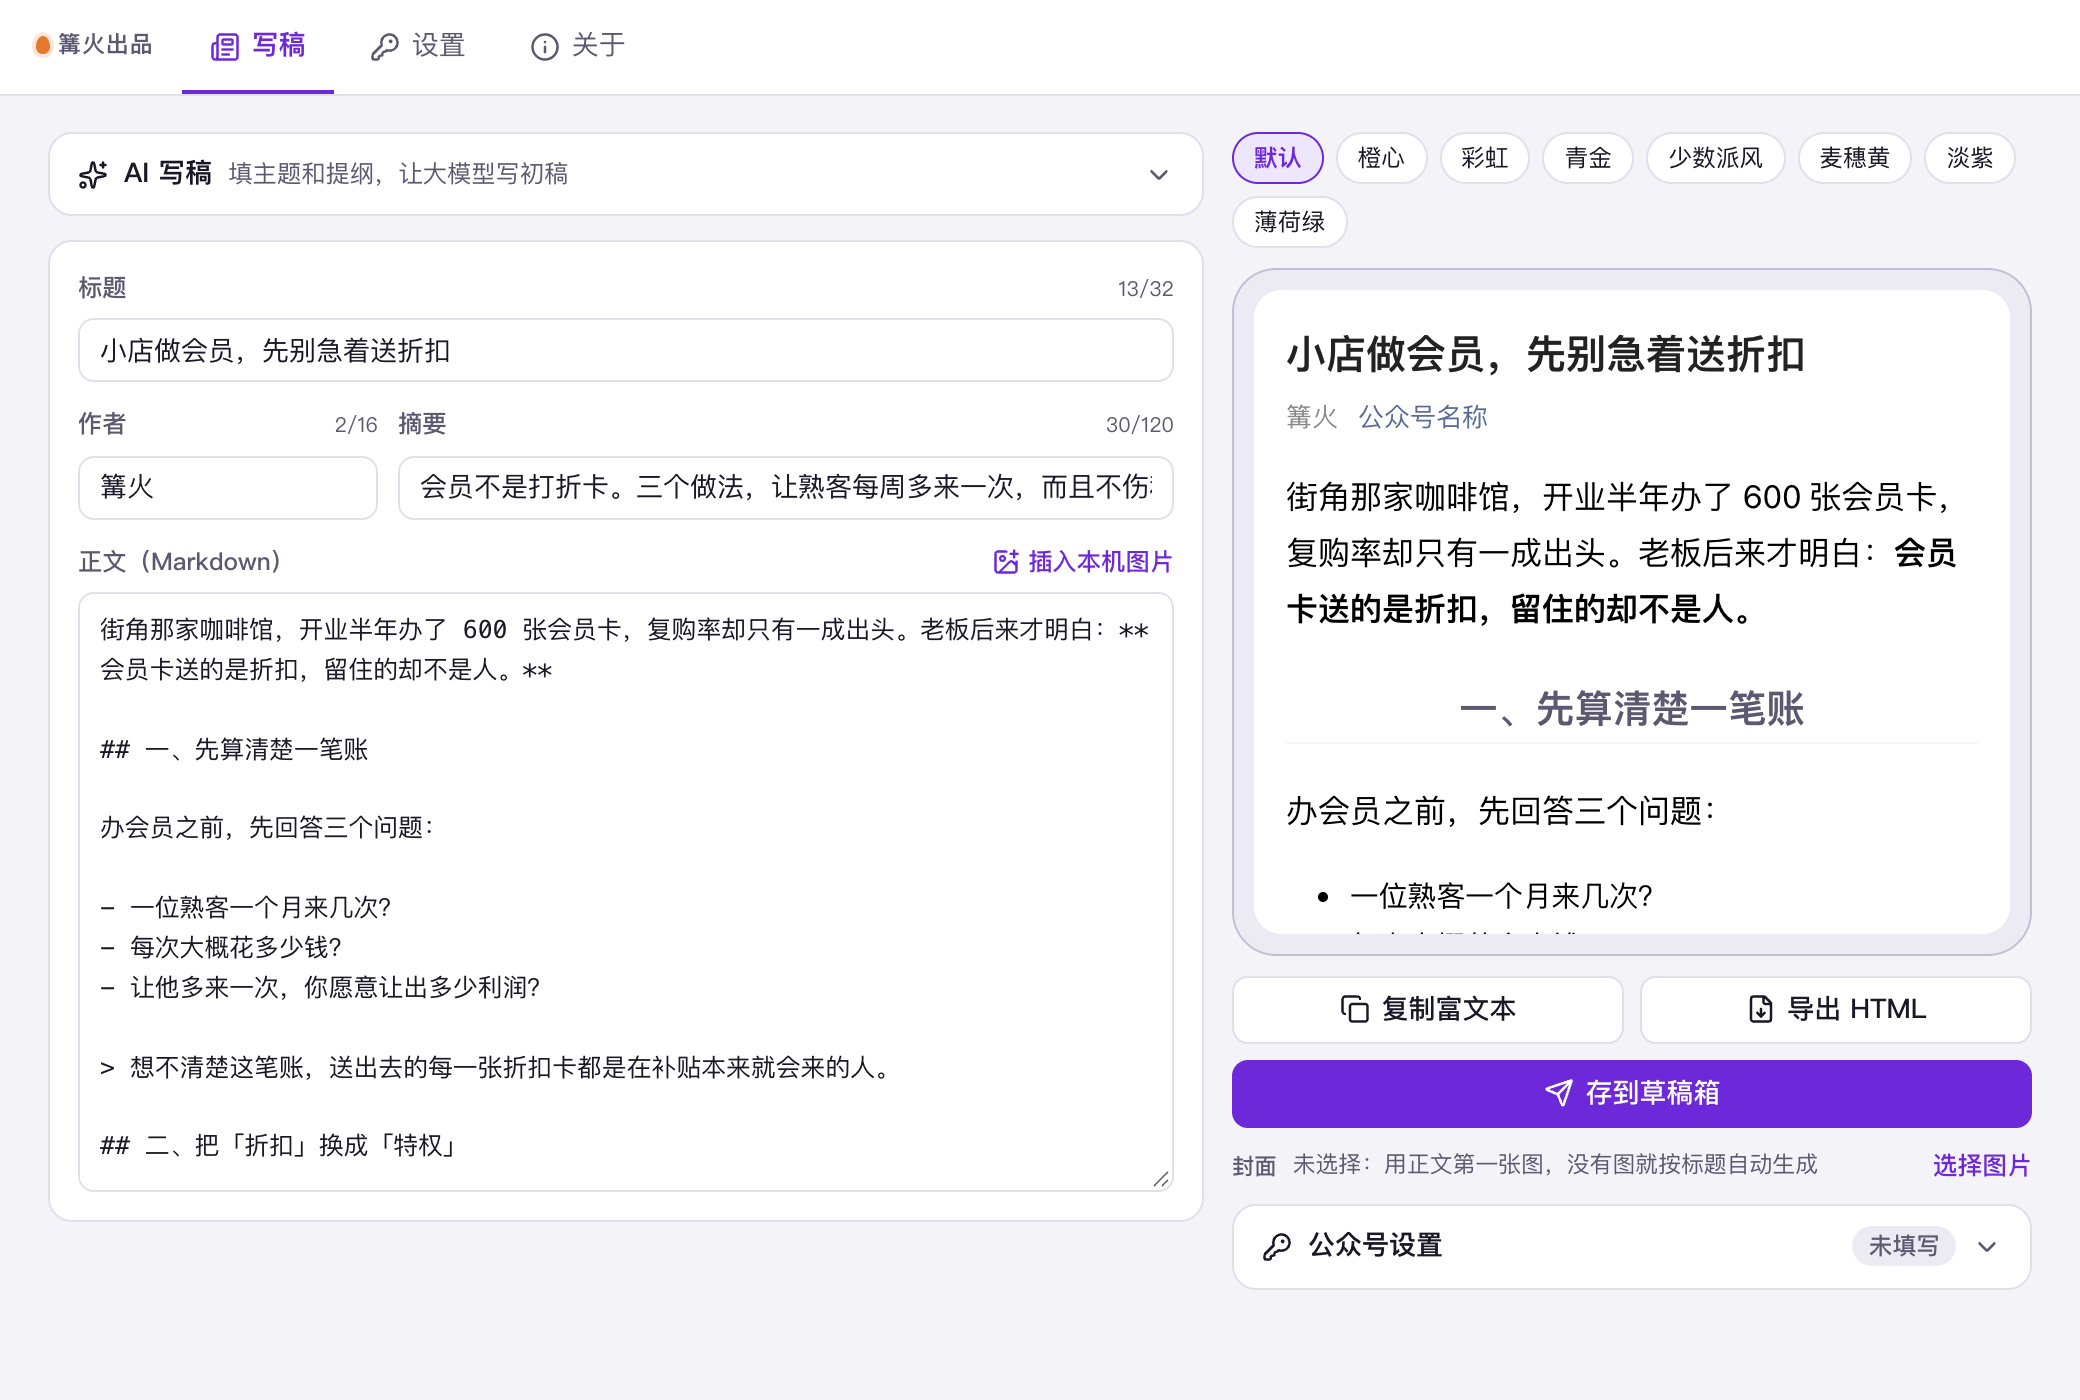
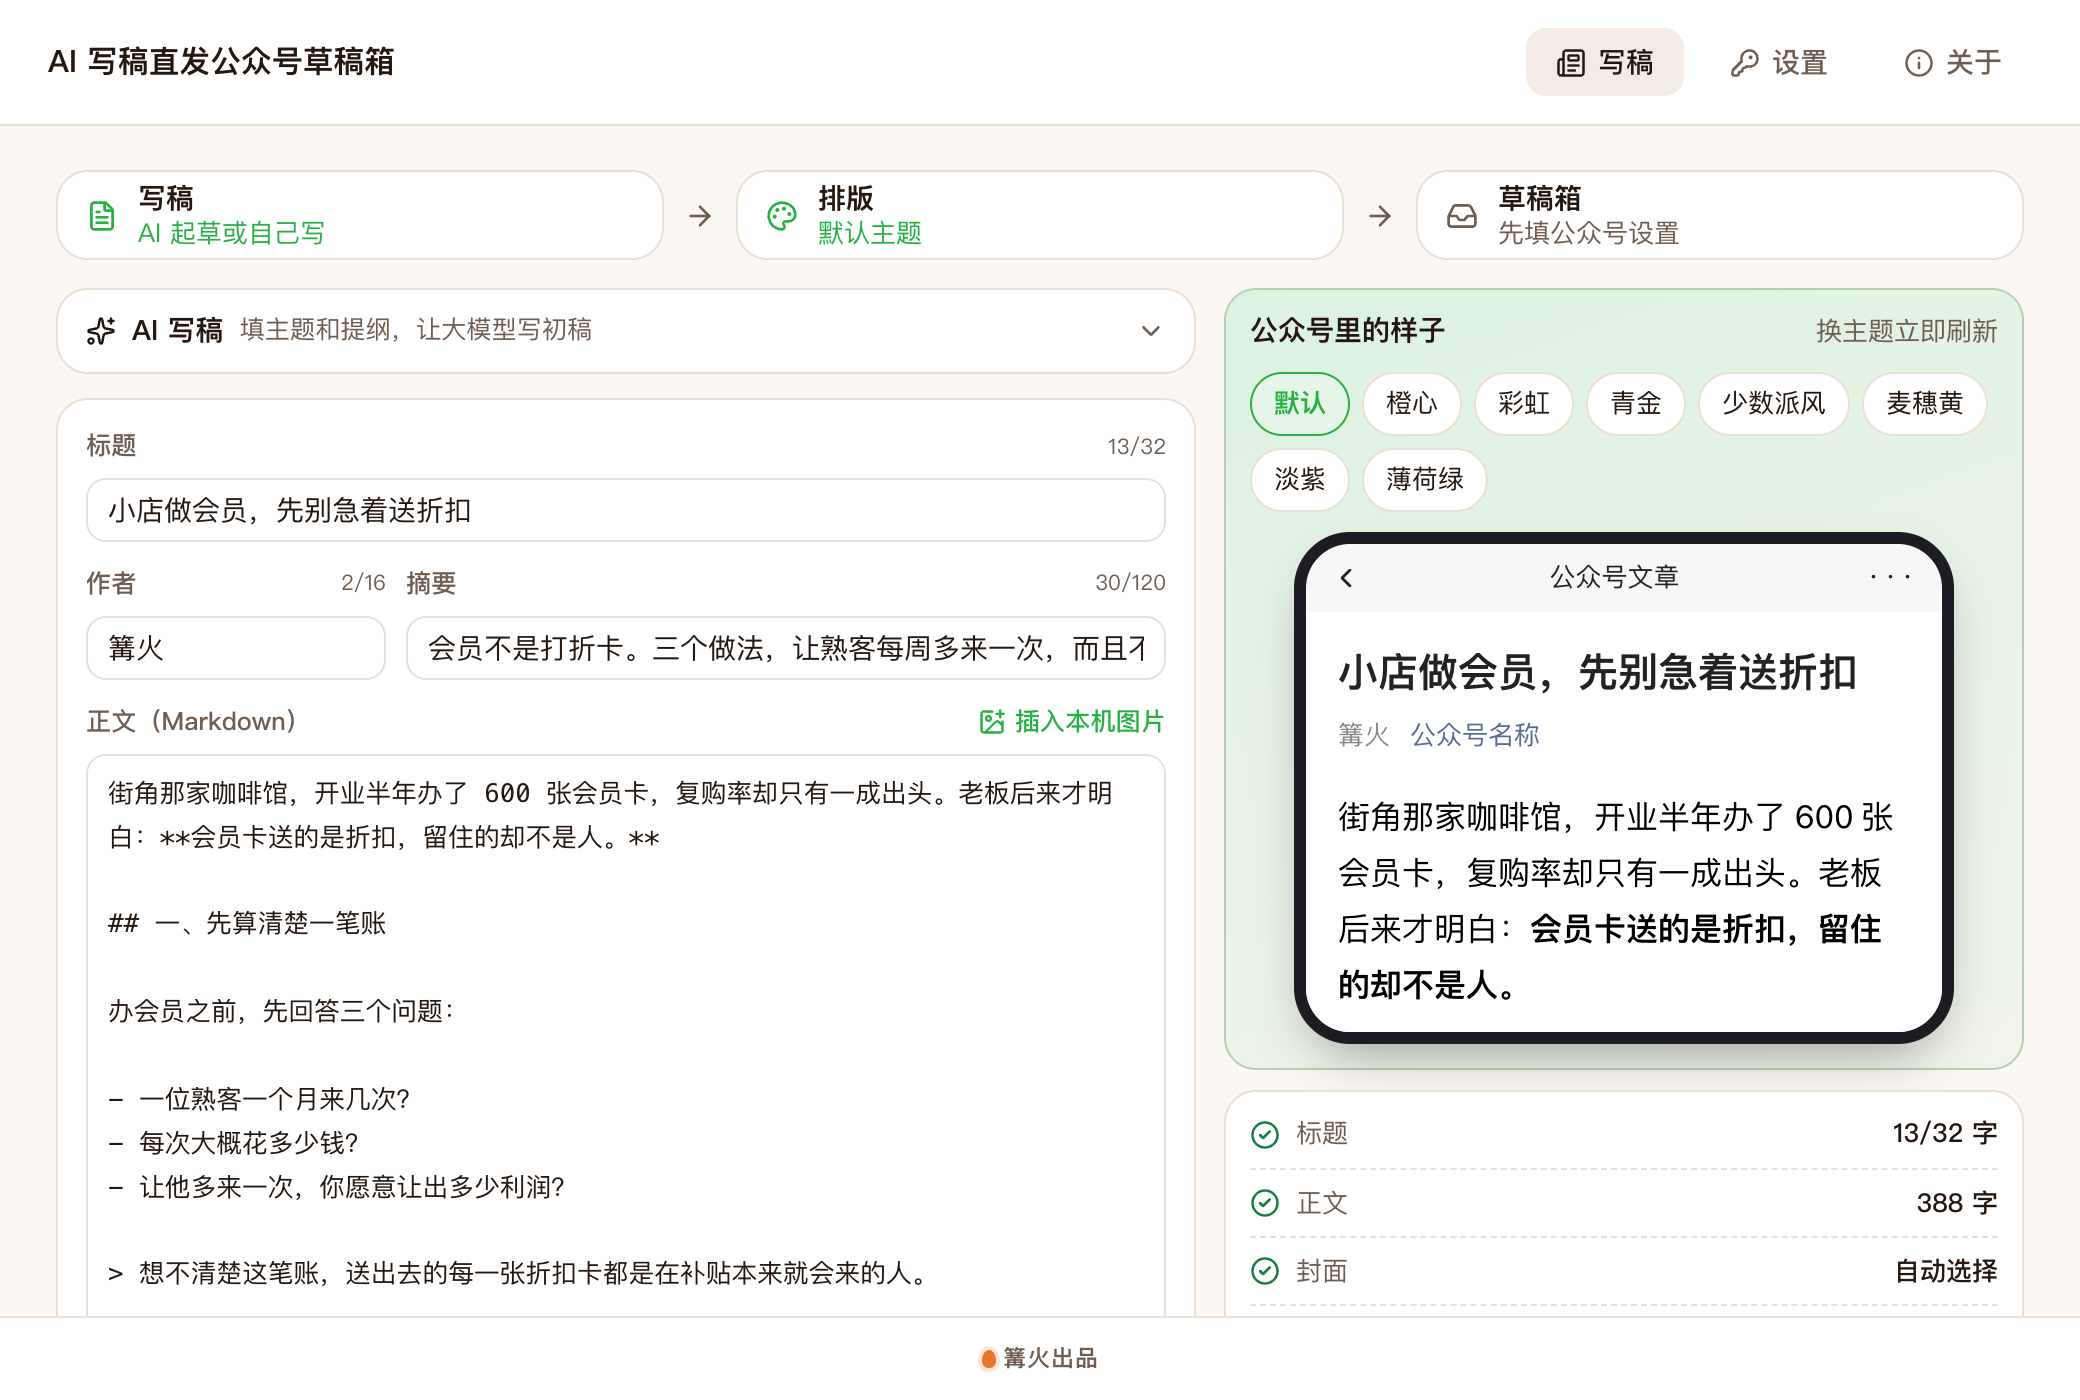
打磨 0.2.0：手机外框预览舞台、三步流程条、存草稿前检查清单，界面全中文

diff --git a/src/tool/Main.tsx b/src/tool/Main.tsx
@@ -1,6 +1,6 @@
 // 主界面：左边写稿（AI 生成 + 手动编辑），右边公众号样式预览；可复制富文本、导出 HTML、一键存到公众号草稿箱。
 import { useDeferredValue, useEffect, useMemo, useRef, useState } from 'react';
-import { Check, ChevronDown, Copy, FileDown, ImagePlus, KeyRound, Loader2, Send, Sparkles, X } from 'lucide-react';
+import { ArrowRight, Check, ChevronDown, ChevronLeft, CircleCheck, CircleDashed, Copy, FileDown, FileText, ImagePlus, Inbox, KeyRound, Loader2, Palette, Send, Sparkles, X } from 'lucide-react';
 import { defaultOutputDir, ensureDir, fileSrc, fs, pickFiles, reveal, settingsStore } from '../kit/platform';
 import { chat, llmReady, useSettings } from '../kit/settings';
 import {
@@ -190,6 +190,13 @@ export function Main({ preview }: { preview?: boolean }) {
   return (
     <div className="wd-host"><div className="wd">
       {!preview && <LlmWatch onChange={setLlmOk} />}
+      <ol className="wd-flow" aria-label="三步流程">
+        <li className={a.markdown.trim() ? 'done' : 'now'}><FileText size={16} /><span><b>写稿</b><small>AI 起草或自己写</small></span></li>
+        <ArrowRight size={16} className="wd-flow-arrow" aria-hidden />
+        <li className="done"><Palette size={16} /><span><b>排版</b><small>{themes.find((t) => t.id === prefs.theme)?.name ?? '默认'}主题</small></span></li>
+        <ArrowRight size={16} className="wd-flow-arrow" aria-hidden />
+        <li className={credOk && html ? 'now' : ''}><Inbox size={16} /><span><b>草稿箱</b><small>{credOk ? '随时可以存' : '先填公众号设置'}</small></span></li>
+      </ol>
       <div className="wd-edit">
         <details className="k-panel wd-ai" open={!a.markdown.trim() || undefined}>
           <summary><Sparkles size={15} /><b>AI 写稿</b><span className="k-muted">填主题和提纲，让大模型写初稿</span><ChevronDown size={15} className="wd-chev" /></summary>
@@ -235,18 +242,30 @@ export function Main({ preview }: { preview?: boolean }) {
       </div>
 
       <div className="wd-side">
-        <div className="wd-themes" role="radiogroup" aria-label="排版主题">
-          {themes.map((t) => <button key={t.id} role="radio" aria-checked={prefs.theme === t.id} className={`k-chip${prefs.theme === t.id ? ' on' : ''}`} onClick={() => setPrefs((o) => ({ ...o, theme: t.id }))}>{t.name}</button>)}
+        <div className="wd-stage">
+          <div className="wd-stage-hd"><b>公众号里的样子</b><span className="k-muted">换主题立即刷新</span></div>
+          <div className="wd-themes" role="radiogroup" aria-label="排版主题">
+            {themes.map((t) => <button key={t.id} role="radio" aria-checked={prefs.theme === t.id} className={`k-chip${prefs.theme === t.id ? ' on' : ''}`} onClick={() => setPrefs((o) => ({ ...o, theme: t.id }))}>{t.name}</button>)}
+          </div>
+          <div className="wd-phone" aria-label="公众号预览">
+            <div className="wd-phone-bar"><ChevronLeft size={16} /><span>公众号文章</span><i aria-hidden>···</i></div>
+            {/* 预览区模拟手机里的公众号文章，始终是白底（文章样式由排版主题决定，与软件的亮暗色无关） */}
+            <article className="wd-paper">
+              <h1 className="wd-art-title">{a.title || '未命名文章'}</h1>
+              <p className="wd-art-meta">{a.author || '作者'}<span>公众号名称</span></p>
+              {renderErr ? <p className="k-err-text">排版出错：{renderErr}</p> : <div dangerouslySetInnerHTML={{ __html: previewHtml }} />}
+            </article>
+          </div>
         </div>
 
-        <div className="wd-phone" aria-label="公众号预览">
-          {/* 预览区模拟手机里的公众号文章，始终是白底（文章样式由排版主题决定，与软件的亮暗色无关） */}
-          <article className="wd-paper">
-            <h1 className="wd-art-title">{a.title || '未命名文章'}</h1>
-            <p className="wd-art-meta">{a.author || '作者'}<span>公众号名称</span></p>
-            {renderErr ? <p className="k-err-text">排版出错：{renderErr}</p> : <div dangerouslySetInnerHTML={{ __html: previewHtml }} />}
-          </article>
-        </div>
+        <ul className="wd-check" aria-label="存草稿前检查">
+          {[
+            [!!a.title.trim(), '标题', a.title.trim() ? `${charCount(a.title)}/${LIMITS.title} 字` : '还没填'],
+            [!!a.markdown.trim(), '正文', `${charCount(a.markdown)} 字`],
+            [true, '封面', prefs.coverPath ? '用你选的图' : '自动选择'],
+            [credOk, '公众号设置', credOk ? '已填写' : '未填写'],
+          ].map(([ok, k, v]) => <li key={String(k)} className={ok ? 'ok' : ''}>{ok ? <CircleCheck size={15} /> : <CircleDashed size={15} />}<span>{k as string}</span><b>{v as string}</b></li>)}
+        </ul>
 
         <div className="wd-actions">
           <button className="k-btn" onClick={doCopy} disabled={!html}>{copied ? <Check size={15} /> : <Copy size={15} />}{copied ? '已复制' : '复制富文本'}</button>
@@ -282,10 +301,10 @@ export function Main({ preview }: { preview?: boolean }) {
           </button>
           {showCred && (
             <div className="wd-cred-body">
-              <div className="k-field"><label className="k-label" htmlFor="wd-appid">AppID</label><input id="wd-appid" className="k-input" autoComplete="off" value={credDraft.appId} placeholder="wx 开头的 18 位" onChange={(e) => setCredDraft({ ...credDraft, appId: e.target.value })} /></div>
-              <div className="k-field"><label className="k-label" htmlFor="wd-secret">AppSecret</label><input id="wd-secret" className="k-input" type="password" autoComplete="off" value={credDraft.appSecret} placeholder="开发密钥" onChange={(e) => setCredDraft({ ...credDraft, appSecret: e.target.value })} /></div>
+              <div className="k-field"><label className="k-label" htmlFor="wd-appid">AppID（公众号 ID）</label><input id="wd-appid" className="k-input" autoComplete="off" value={credDraft.appId} placeholder="照着后台复制，共 18 位" onChange={(e) => setCredDraft({ ...credDraft, appId: e.target.value })} /></div>
+              <div className="k-field"><label className="k-label" htmlFor="wd-secret">AppSecret（公众号密钥）</label><input id="wd-secret" className="k-input" type="password" autoComplete="off" value={credDraft.appSecret} placeholder="开发密钥" onChange={(e) => setCredDraft({ ...credDraft, appSecret: e.target.value })} /></div>
               <p className="k-help">
-                AppID 和 AppSecret 在「微信开发者平台 → 我的业务 → 你的公众号」里查看，只保存在这台电脑上。<b>还需要把本机的公网 IP 加进同一页面的「API IP 白名单」</b>，否则会提示 IP 不在白名单（提示里会写出你的 IP）。未认证的订阅号可能没有草稿接口权限。
+                AppID（公众号 ID）和 AppSecret（公众号密钥）在「微信开发者平台 → 我的业务 → 你的公众号」里查看，只保存在这台电脑上。<b>还需要把本机的公网 IP 加进同一页面的「API IP 白名单」</b>，否则会提示 IP 不在白名单（提示里会写出你的 IP）。未认证的订阅号可能没有草稿接口权限。
               </p>
               <div className="wd-row">
                 <button className="k-btn primary" disabled={credDraft.appId === cred.appId && credDraft.appSecret === cred.appSecret} onClick={saveCred}>保存</button>

diff --git a/src/tool/tool.css b/src/tool/tool.css
@@ -2,6 +2,14 @@
    例外：.wd-paper 是手机里公众号文章的模拟预览，固定白底深色字，与软件亮暗色无关（文章本身的样式由排版主题内联）。 */
 .wd-host { container-type: inline-size; flex: 1; min-width: 0; }
 .wd { display: grid; grid-template-columns: minmax(0, 1fr) minmax(340px, 400px); gap: 14px; align-items: start; min-height: 0; }
+.wd-flow { grid-column: 1 / -1; display: flex; align-items: center; gap: 10px; list-style: none; margin: 0; padding: 0; }
+.wd-flow li { flex: 1; display: flex; align-items: center; gap: 10px; min-height: 40px; padding: 4px 14px; border: 1px solid var(--line); border-radius: var(--radius-lg); background: var(--surface); color: var(--muted); }
+.wd-flow li span { display: grid; line-height: 1.3; }
+.wd-flow li b { color: var(--ink); font-size: 14px; }
+.wd-flow li small { font-size: 13px; }
+.wd-flow li.done { color: var(--primary); }
+.wd-flow li.now { border-color: var(--primary); background: color-mix(in srgb, var(--primary) 9%, var(--surface)); color: var(--primary); }
+.wd-flow-arrow { color: var(--muted); flex: none; }
 .wd-edit { display: flex; flex-direction: column; gap: 12px; min-width: 0; }
 .wd-ai summary { display: flex; align-items: center; gap: 8px; padding: 10px 14px; cursor: pointer; list-style: none; }
 .wd-ai summary::-webkit-details-marker { display: none; }
@@ -23,14 +31,25 @@
 .wd-md { min-height: 300px; height: 52vh; font-family: ui-monospace, "SF Mono", Menlo, Consolas, monospace; font-size: .92em; line-height: 1.7; }
 
 .wd-side { display: flex; flex-direction: column; gap: 10px; min-width: 0; position: sticky; top: 0; }
+.wd-stage { padding: 10px 12px 12px; border-radius: var(--radius-lg); background: linear-gradient(160deg, color-mix(in srgb, var(--primary) 16%, var(--surface)), color-mix(in srgb, var(--primary) 5%, var(--bg))); border: 1px solid color-mix(in srgb, var(--primary) 28%, var(--line)); display: grid; gap: 10px; }
+.wd-stage-hd { display: flex; justify-content: space-between; align-items: baseline; gap: 8px; }
+.wd-stage-hd .k-muted { font-size: 13px; }
 .wd-themes { display: flex; flex-wrap: wrap; gap: 6px; }
-.wd-themes .k-chip { padding: 3px 10px; font-size: .88em; }
-.wd-phone { border: 1px solid var(--line-strong); border-radius: 22px; padding: 10px; background: var(--chip); }
-.wd-paper { background: #fff; color: #222; border-radius: 14px; padding: 18px 16px 22px; height: 46vh; min-height: 300px; overflow: auto; user-select: text; color-scheme: light; }
+.wd-themes .k-chip { padding: 4px 11px; font-size: 13px; min-height: 32px; }
+.wd-phone { border: 6px solid #1c1c22; border-radius: 28px; background: #1c1c22; overflow: hidden; box-shadow: 0 12px 28px -12px rgba(0,0,0,.45); width: min(100%, 330px); margin: 0 auto; }
+.wd-phone-bar { display: flex; align-items: center; justify-content: space-between; height: 34px; padding: 0 12px; background: #f7f7f7; color: #222; font-size: 13px; }
+.wd-phone-bar i { font-style: normal; letter-spacing: 2px; }
+.wd-paper { background: #fff; color: #222; border-radius: 0; padding: 16px 16px 22px; height: 30vh; min-height: 200px; overflow: auto; user-select: text; color-scheme: light; }
 .wd-art-title { font-size: 20px; line-height: 1.4; font-weight: 700; color: #222; margin: 0 0 8px; }
 .wd-art-meta { font-size: 13px; color: #888; margin: 0 0 14px; display: flex; gap: 10px; }
 .wd-art-meta span { color: #576b95; }
 .wd-paper img { max-width: 100%; }
+.wd-check { list-style: none; margin: 0; padding: 4px 12px; display: grid; border: 1px solid var(--line); border-radius: var(--radius-lg); background: var(--surface); }
+.wd-check li { display: flex; align-items: center; gap: 8px; min-height: 34px; color: var(--muted); font-size: 13px; }
+.wd-check li + li { border-top: 1px dashed var(--line); }
+.wd-check li span { flex: 1; }
+.wd-check li b { font-weight: 500; color: var(--ink); }
+.wd-check li.ok svg { color: var(--ok, var(--primary)); }
 .wd-actions { display: grid; grid-template-columns: 1fr 1fr; gap: 8px; }
 .wd-actions .primary { grid-column: 1 / -1; }
 .wd-cover { display: flex; align-items: center; gap: 8px; flex-wrap: wrap; font-size: .92em; }
@@ -42,4 +61,4 @@
 .wd-cred-hd b { flex: 1; }
 .wd-cred-body { display: grid; gap: 10px; padding: 0 14px 14px; }
 .wd-cred-body .k-help b { color: var(--ink); }
-@container (max-width: 820px) { .wd { grid-template-columns: 1fr; } .wd-side { position: static; } .wd-paper { height: 60vh; } }
+@container (max-width: 820px) { .wd-flow li small { display: none; }  .wd { grid-template-columns: 1fr; } .wd-side { position: static; } .wd-paper { height: 50vh; } }

diff --git a/src/tool/wechat.ts b/src/tool/wechat.ts
@@ -66,7 +66,7 @@ export function wxErrorText(code: number, errmsg = ''): string {
   const base = ERRORS[code];
   if (code === 40164) {
     const ip = ipFromErrmsg(errmsg);
-    return `${base}${ip ? `（微信看到的 IP 是 ${ip}）` : ''}。请打开「微信开发者平台（developers.weixin.qq.com/platform）→ 扫码登录 → 我的业务 → 选择这个公众号」，在「API IP 白名单」里加入这个 IP，保存后几分钟再试`;
+    return `${base}${ip ? `（微信看到的 IP 是 ${ip}）` : ''}。请打开「微信开发者平台（浏览器搜索即可找到）→ 扫码登录 → 我的业务 → 选择这个公众号」，在「API IP 白名单」里加入这个 IP，保存后几分钟再试`;
   }
   const short = errmsg.replace(/\s*rid:.*$/, '').replace(/,?\s*more details at \S+/, '').trim();
   return base ? `${base}（错误码 ${code}）` : `微信接口返回错误 ${code}${short ? `：${short}` : ''}`;

diff --git a/src/tool/images.ts b/src/tool/images.ts
@@ -12,7 +12,7 @@ export async function loadImage(src: string): Promise<Img> {
     if (!res.ok) throw new Error(`下载失败（HTTP ${res.status}）`);
     bytes = new Uint8Array(await res.arrayBuffer());
   } else if (kind === 'local') bytes = await fs.readFile(localPath(src));
-  else throw new Error('图片要写完整路径或网址（例如 /Users/你/图片/a.png 或 https://…），相对路径找不到文件');
+  else throw new Error('图片要写完整路径或网址（例如 D:\\图片\\封面.png 或 https://…），相对路径找不到文件');
   const mime = sniffImage(bytes);
   if (!mime) throw new Error('不是可识别的图片文件');
   return { bytes, mime };

diff --git a/CHANGELOG.md b/CHANGELOG.md
@@ -1,5 +1,12 @@
 # 更新记录
 
+## 0.2.0
+
+- 重做界面：顶部三步流程条，右侧改为手机外框的公众号预览舞台，换主题立即刷新。
+- 新增存草稿前检查清单（标题、正文、封面、公众号设置）。
+- 公众号 ID 和密钥字段补充中文说明，提示语中文化。
+- 专属主色，布局改为暖色卡片。
+
 ## 0.1.0
 
 - 首个版本。
